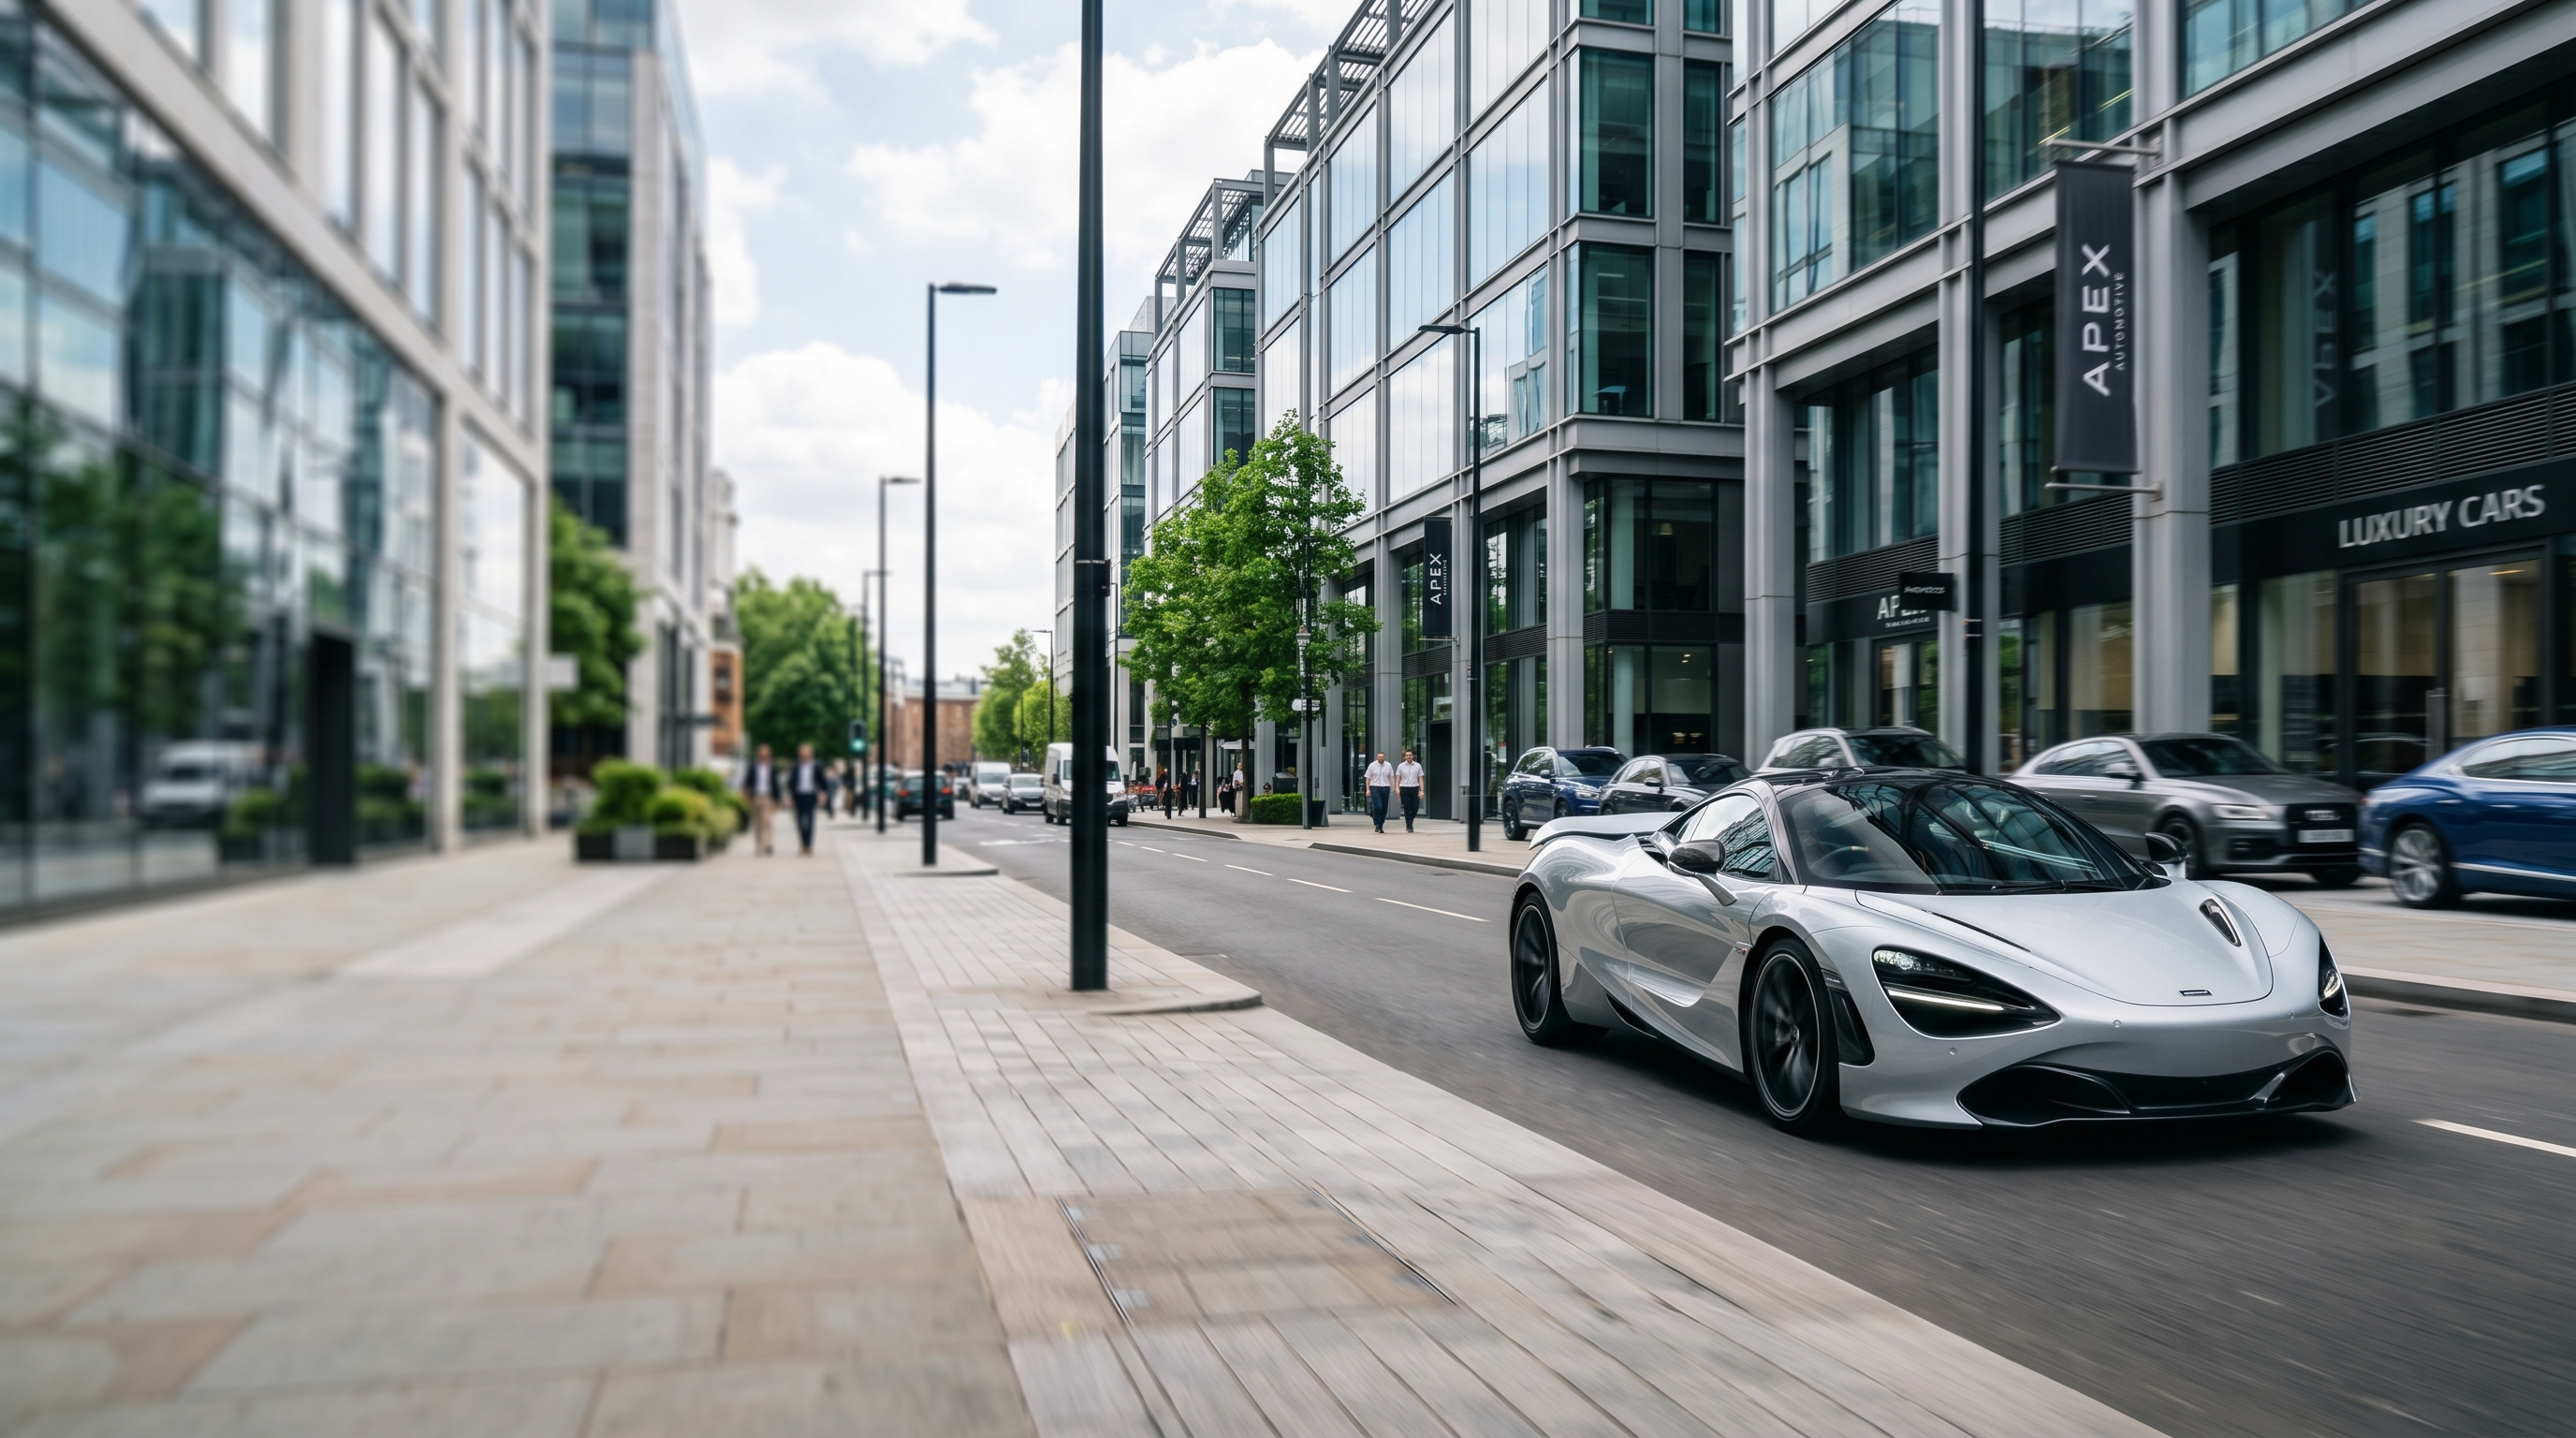
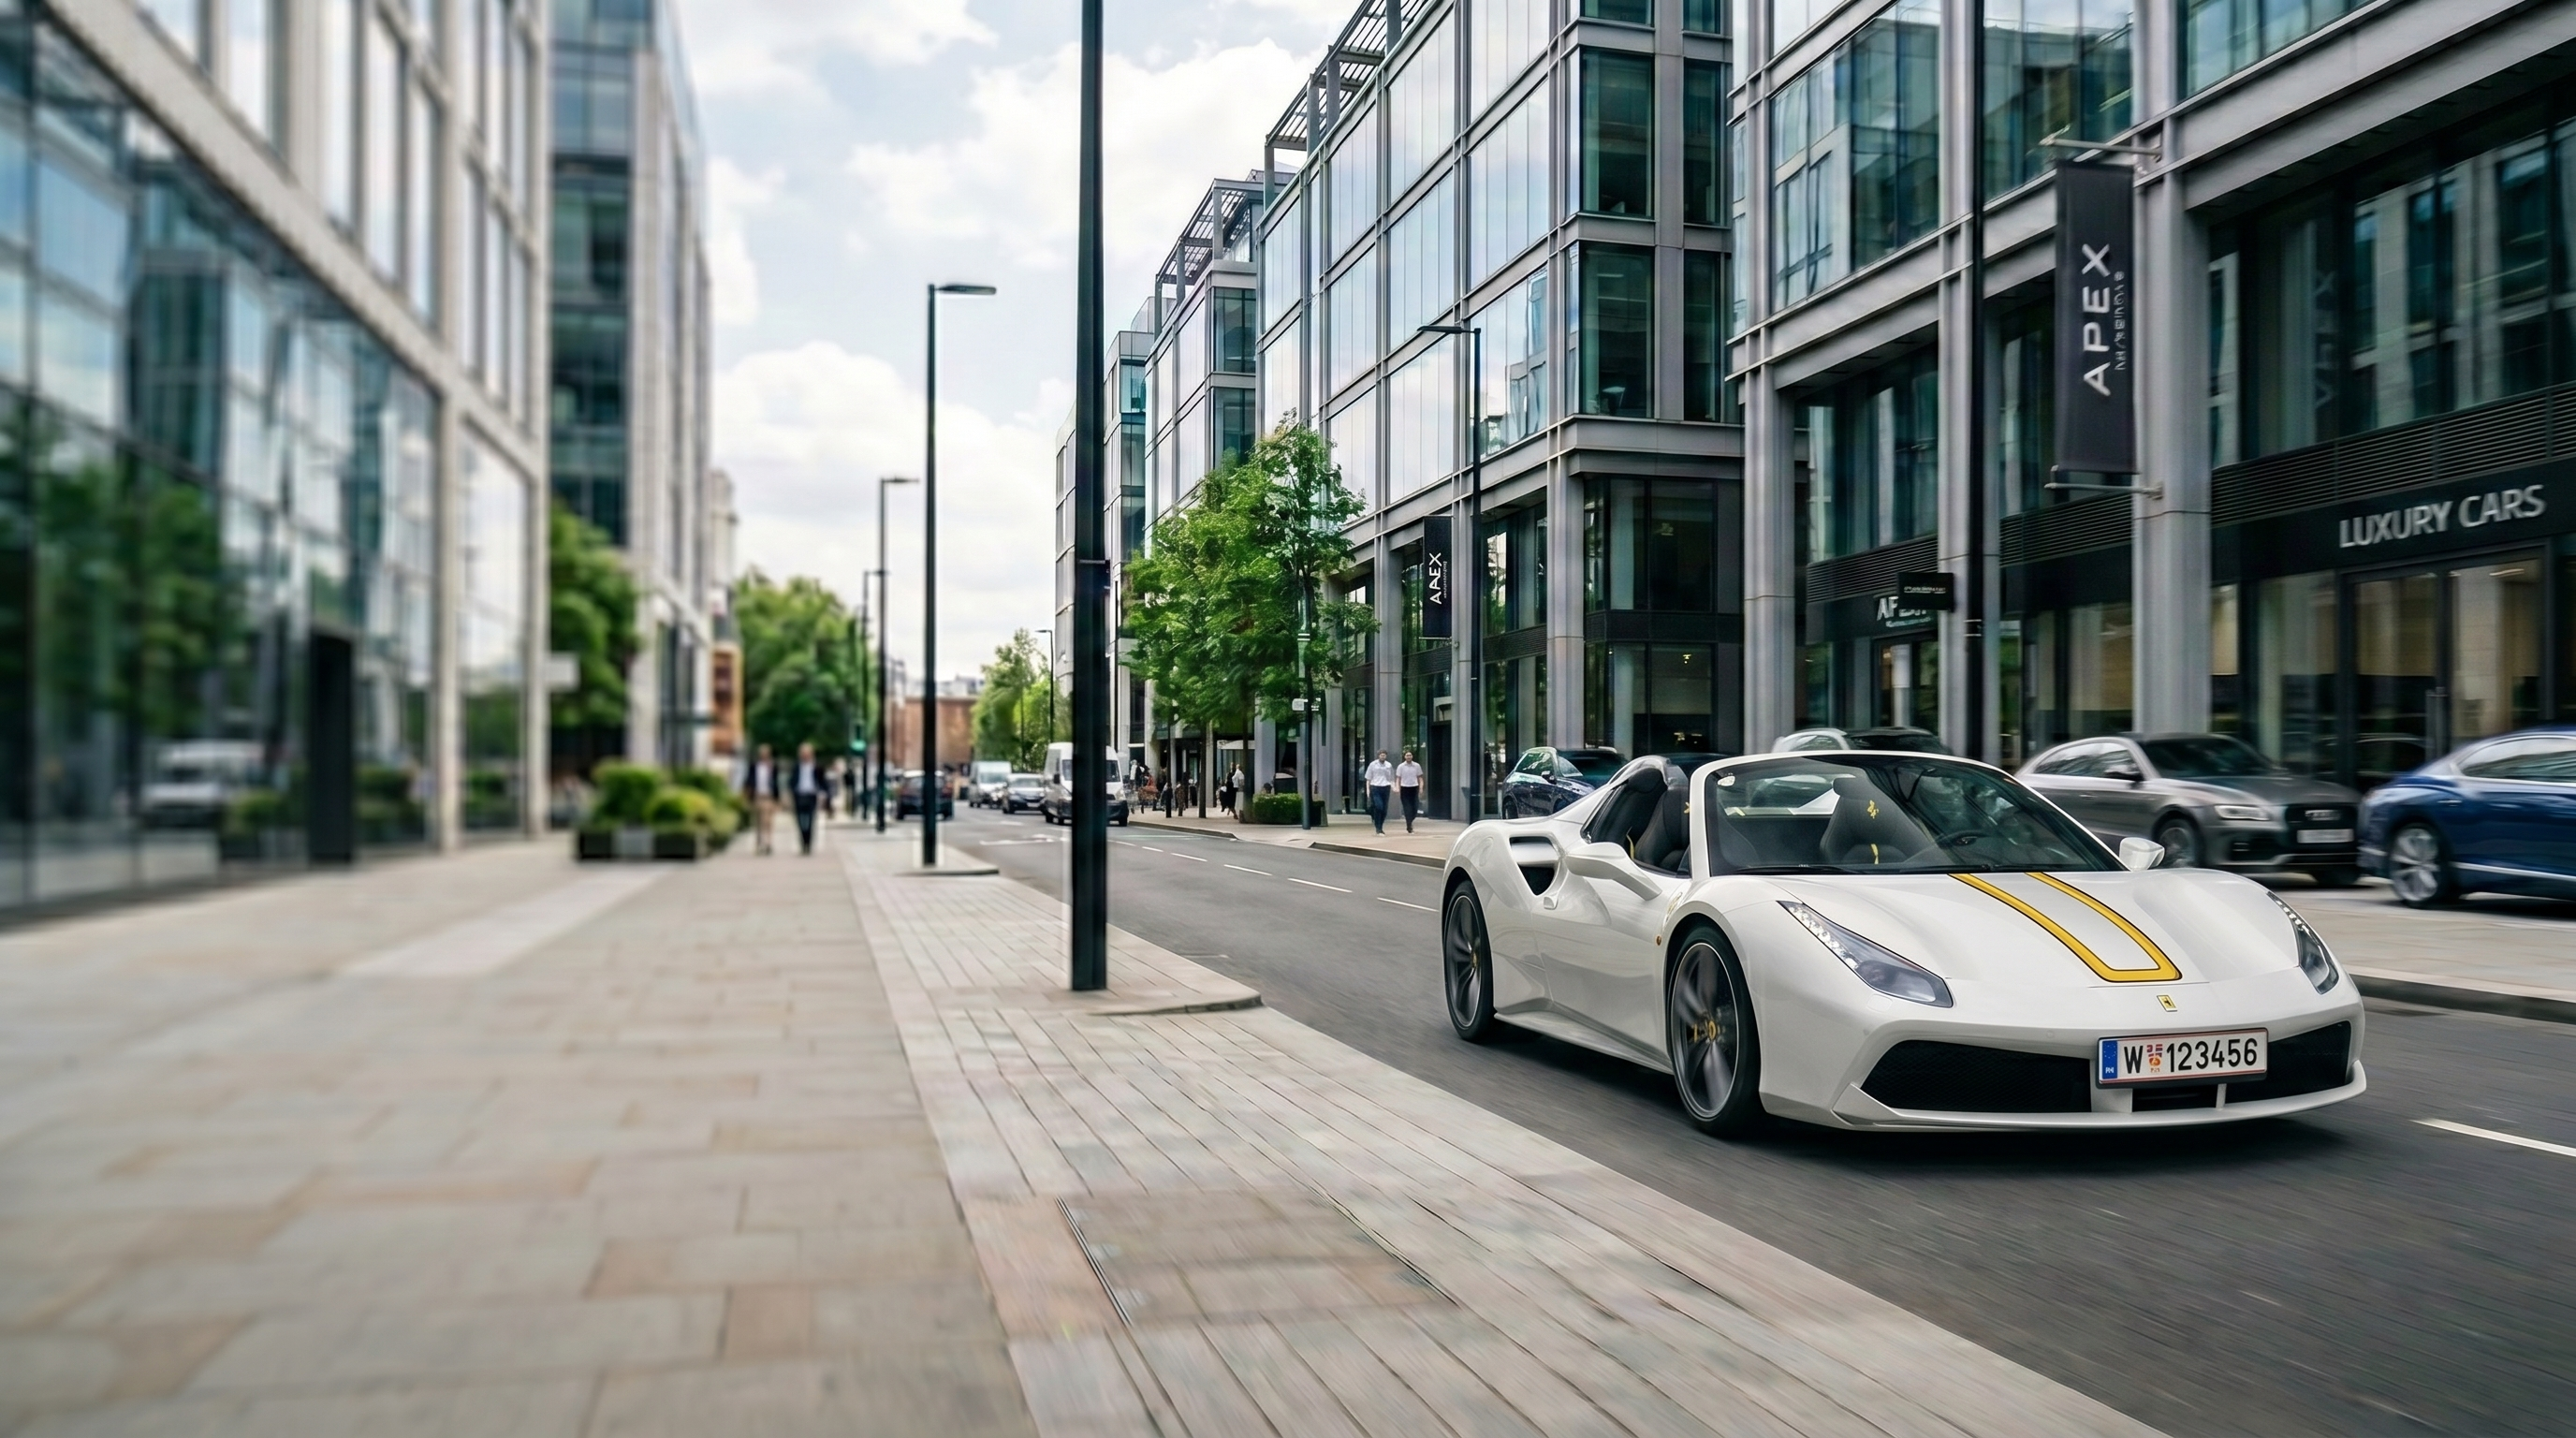
hero section tweak

diff --git a/components/hero/hero-scroller.tsx b/components/hero/hero-scroller.tsx
@@ -1,84 +1,11 @@
 "use client";
 
-import { useEffect, useRef } from "react";
-import { gsap, ScrollTrigger } from "@/lib/gsap";
-import { vehicles } from "@/lib/vehicles";
-import { GRADIENT_COLORS } from "./constants";
+import { useRef } from "react";
 import { BackgroundGradient } from "./background-gradient";
-import { CarStage } from "./car-stage";
 import { OverlayText } from "./overlay-text";
-
-const CARS = vehicles;
 
 export function HeroScroller() {
   const sectionRef = useRef<HTMLElement>(null);
-  const bgRef = useRef<HTMLDivElement>(null);
-  const carRefs = useRef<Array<HTMLDivElement | null>>([]);
-
-  useEffect(() => {
-    if (typeof window === "undefined") return;
-
-    if (bgRef.current) {
-      bgRef.current.style.setProperty(
-        "--bg-color",
-        GRADIENT_COLORS[CARS[0].gradient],
-      );
-    }
-
-    const reduced = window.matchMedia(
-      "(prefers-reduced-motion: reduce)",
-    ).matches;
-    if (reduced) return;
-
-    const ctx = gsap.context(() => {
-      const N = CARS.length;
-      const mm = gsap.matchMedia();
-
-      const build = (perCar: number) => {
-        const trigger = ScrollTrigger.create({
-          trigger: sectionRef.current!,
-          start: "top top",
-          end: () => `+=${window.innerHeight * (N - 1) * perCar}`,
-          pin: true,
-          scrub: 1,
-          invalidateOnRefresh: true,
-          onUpdate(self) {
-            const total = N - 1;
-            const p = Math.max(0, Math.min(self.progress, 1)) * total;
-            const i = Math.min(Math.floor(p), total - 1);
-            const t = p - i;
-
-            for (let idx = 0; idx < CARS.length; idx++) {
-              const el = carRefs.current[idx];
-              if (!el) continue;
-              if (idx === i) {
-                el.style.transform = `translate3d(${-15 * t}vw, 0, 0)`;
-                el.style.opacity = `${1 - t}`;
-              } else if (idx === i + 1) {
-                el.style.transform = `translate3d(${15 * (1 - t)}vw, 0, 0)`;
-                el.style.opacity = `${t}`;
-              } else {
-                el.style.opacity = "0";
-              }
-            }
-
-            if (bgRef.current) {
-              const c1 = GRADIENT_COLORS[CARS[i].gradient];
-              const c2 = GRADIENT_COLORS[CARS[Math.min(i + 1, N - 1)].gradient];
-              const mixed = gsap.utils.interpolate(c1, c2, t) as string;
-              bgRef.current.style.setProperty("--bg-color", mixed);
-            }
-          },
-        });
-        return () => trigger.kill();
-      };
-
-      mm.add("(min-width: 768px)", () => build(1));
-      mm.add("(max-width: 767.99px)", () => build(0.6));
-    }, sectionRef);
-
-    return () => ctx.revert();
-  }, []);
 
   return (
     <section
@@ -86,7 +13,7 @@ export function HeroScroller() {
       aria-label="Aktuelle Fahrzeuge"
       className="relative h-screen w-full overflow-hidden"
     >
-      <BackgroundGradient ref={bgRef} />
+      <BackgroundGradient />
       <OverlayText />
       <a
         href="#philosophie"

diff --git a/components/hero/background-gradient.tsx b/components/hero/background-gradient.tsx
@@ -1,8 +1,4 @@
-"use client";
-
-import type { Ref } from "react";
-
-export function BackgroundGradient({ ref }: { ref?: Ref<HTMLDivElement> }) {
+export function BackgroundGradient() {
   return (
     <div aria-hidden className="absolute inset-0">
       {/* eslint-disable-next-line @next/next/no-img-element */}
@@ -14,14 +10,28 @@ export function BackgroundGradient({ ref }: { ref?: Ref<HTMLDivElement> }) {
         fetchPriority="high"
         draggable={false}
       />
+      {/* vignette */}
       <div
-        ref={ref}
-        className="absolute inset-0"
+        className="pointer-events-none absolute inset-0"
         style={{
           background:
-            "radial-gradient(ellipse 110% 80% at 50% 45%, var(--bg-color, #7ec8c8), transparent 72%)",
-          transition: "background 0s",
-          opacity: 0.55,
+            "radial-gradient(ellipse 95% 75% at 50% 45%, transparent 35%, rgba(10,10,10,0.45) 85%, rgba(10,10,10,0.92) 100%)",
+        }}
+      />
+      {/* bottom scrim */}
+      <div
+        className="pointer-events-none absolute inset-x-0 bottom-0 h-[55%]"
+        style={{
+          background:
+            "linear-gradient(to top, rgba(10,10,10,0.88) 0%, rgba(10,10,10,0.6) 30%, rgba(10,10,10,0.2) 65%, transparent 100%)",
+        }}
+      />
+      {/* top scrim */}
+      <div
+        className="pointer-events-none absolute inset-x-0 top-0 h-32"
+        style={{
+          background:
+            "linear-gradient(to bottom, rgba(10,10,10,0.75) 0%, rgba(10,10,10,0.3) 50%, transparent 100%)",
         }}
       />
     </div>

diff --git a/components/hero/overlay-text.tsx b/components/hero/overlay-text.tsx
@@ -14,14 +14,14 @@ export function OverlayText() {
       <div className="flex flex-1 items-center">
         <div
           className="max-w-3xl text-bone"
-          style={{ textShadow: "0 2px 28px rgba(0,0,0,0.6)" }}
+          style={{ textShadow: "0 2px 32px rgba(0,0,0,0.85)" }}
         >
           <h1 className="text-5xl font-black uppercase leading-[0.88] tracking-tight sm:text-7xl lg:text-[7.5rem]">
             Getrieben von
             <br />
             Exzellenz.
           </h1>
-          <p className="mt-5 text-[11px] uppercase tracking-[0.28em] text-bone/65 sm:mt-6">
+          <p className="mt-5 text-[11px] uppercase tracking-[0.28em] text-bone/90 sm:mt-6">
             Die feinsten Automobile Wiens
           </p>
 
@@ -34,7 +34,7 @@ export function OverlayText() {
             </a>
             <a
               href="/kontakt"
-              className="group inline-flex items-center gap-2 text-[11px] uppercase tracking-[0.18em] text-bone/85 transition-colors hover:text-bone"
+              className="group inline-flex items-center gap-2 text-[11px] uppercase tracking-[0.18em] text-bone transition-colors hover:text-gold"
             >
               <span>Fahrzeug verkaufen</span>
               <span className="transition-transform duration-300 group-hover:translate-x-1">
@@ -48,7 +48,7 @@ export function OverlayText() {
       {/* Bottom stats bar */}
       <div
         className="pb-10 sm:pb-14"
-        style={{ textShadow: "0 1px 8px rgba(0,0,0,0.5)" }}
+        style={{ textShadow: "0 1px 12px rgba(0,0,0,0.8)" }}
       >
         <div className="grid grid-cols-2 border-t border-bone/10 sm:grid-cols-4">
           {STATS.map((stat) => (
@@ -59,7 +59,7 @@ export function OverlayText() {
               <p className="text-lg font-bold uppercase tracking-wide text-bone sm:text-xl">
                 {stat.value}
               </p>
-              <p className="mt-0.5 text-[10px] uppercase tracking-[0.2em] text-bone/50">
+              <p className="mt-0.5 text-[10px] uppercase tracking-[0.2em] text-bone/80">
                 {stat.label}
               </p>
             </div>